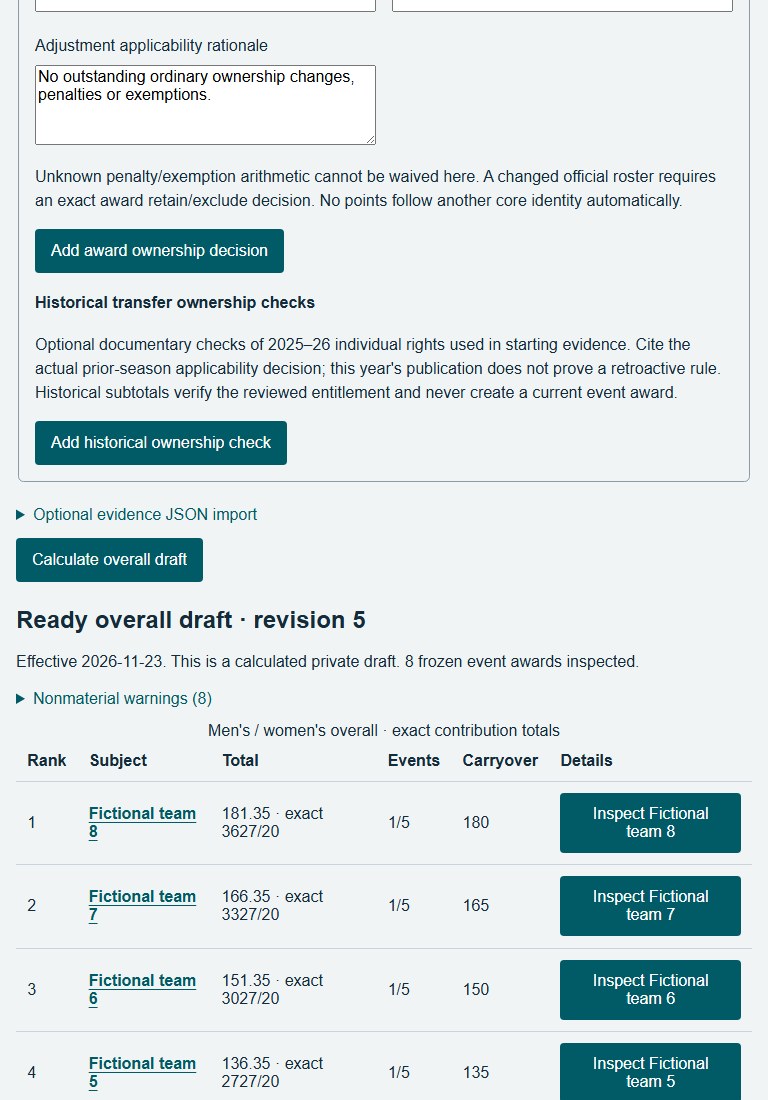
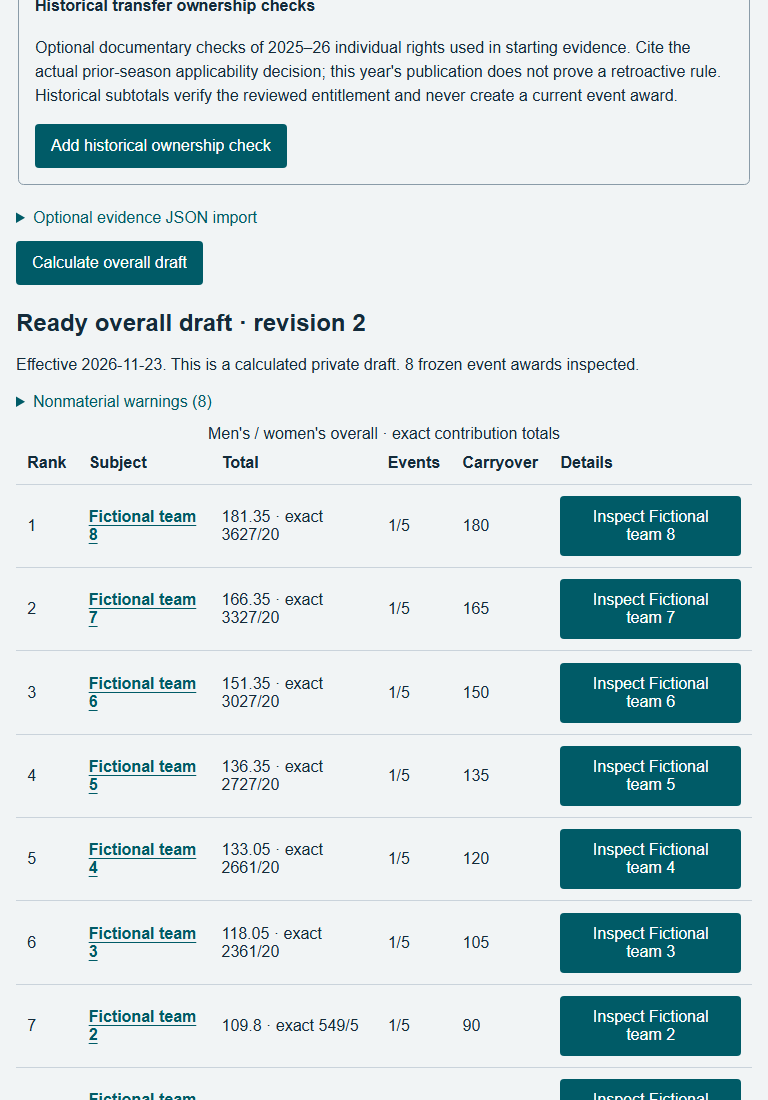
WCP-034: record final 94 domain, 24 affected API and 86 browser verification

diff --git a/tests/browser/overall-rankings.spec.ts b/tests/browser/overall-rankings.spec.ts
@@ -469,6 +469,11 @@ test("ordinary sourced award exclusion, retained roster and historical ownership
     .getByLabel("Prior player 4", { exact: true })
     .fill(f.playerLists[1][0]);
   await page
+    .getByLabel("Continuity rationale", { exact: true })
+    .fill(
+      "Fictional source confirms three retained regulars with50 each from a200 total at four equal shares; incoming independently owns50, so the200 minimum remains exact.",
+    );
+  await page
     .getByRole("button", { name: "Add award ownership decision", exact: true })
     .click();
   await page
@@ -512,6 +517,11 @@ test("ordinary sourced award exclusion, retained roster and historical ownership
     .getByLabel("Historical transfer applicability rationale", { exact: true })
     .fill(
       "Synthetic applicable prior-season decision200×1/4=50. This is documentary starting ownership only, not a current event award or retroactive official rule claim.",
+    );
+  await page
+    .getByLabel("Adjustment applicability rationale", { exact: true })
+    .fill(
+      "Fictional reviewed27-point ordinary exclusion and independently applicable historical entitlement check; no outstanding penalty or exemption arithmetic.",
     );
   await page
     .getByRole("button", { name: "Calculate overall draft", exact: true })

diff --git a/docs/verification/WCP-034.md b/docs/verification/WCP-034.md
@@ -1,6 +1,65 @@
-# WCP-034 implementation evidence (in progress)
+# WCP-034 implementation verification
 
-Assigned worktree `.worktrees/WCP-034`, branch `ticket/WCP-034`; based on accepted integration `3c33c2b4630bfdffe2b561ab0573167ea7bdda86`. This checkpoint is not acceptance or tracker closure. API/domain vertical slice exists; frontend and broad verification remain unfinished.
+Implemented the bounded private men's/women's four-player overall draft slice, with current complete starting ownership, sourced continuity/ordinary decisions, actual persisted033 awards, exact dated selection, immutable contribution/history manifests, safe retries and frozen replay. Runtime source is `ba5b98cd9a2cbd44995cbb961f3ad372f5a9388c`, including accepted integration `6b03ee41f3fd7e82ce52c8f31ab31180f182e83d` (documentation-only atop accepted020). Final follow-up changes clarify synthetic fixture rationale and verification artifacts; runtime bytes are unchanged. No pending007/010 implementation was imported. Independent acceptance and tracker closure belong to the coordinator.
+
+## Final checks and exact scope
+
+Source stayed frozen during each suite; APIs/browser fixtures ran sequentially. Tests use the agreed public domain, real PostgreSQL/HTTP and actual browser seams, with independent expected values and no database mocks or coverage target. Final runtime is Node20.19.0/PostgreSQL13, owned database`wcp034_acceptance` on127.0.0.1:55431, app3134/news3234. Secrets are random/ignored, email is local-file, private media is outside the disposable worktree, and the primary checkout has no `.env`.
+
+Complete private reports/logs are under `C:/Users/brthi/Projects/world-curling-platform-2/.runtime/wcp034-reports/` unless an earlier checkpoint explicitly names this worktree's ignored `.runtime/`.
+
+| Actual command / scope | Result and retained evidence |
+| --- | --- |
+| Final standard `npm test` | **94/94**,0fail/skip,2.351s;84 inherited +10 substantive034 domain scenarios. `domain-final.log`. |
+| Standard `npm run test:api`, **pre-overlap-guard** frozen source | **101/101**,0fail/skip,539.146s. `api-all.log`. This earlier broad scope is not relabelled as final-guard testing. |
+| Final `npx tsx --test --test-concurrency=1 tests/ranking-inputs.api.test.ts tests/event-assessments.api.test.ts tests/finalization-api.test.ts tests/overall-rankings.api.test.ts` | **24/24**,0fail/skip,131.140s. `api-final-affected.log`. Includes current ownership guard, real033 single/triple awards, sporting/source races, provenance and transactional recovery. |
+| Final standard `npm run test:browser -- --reporter=list,html,json --output=<owned-report-path>` | **86/86**,1116.209s,0unexpected/flaky/skipped, no report errors. Complete `browser-all/`, `browser-all-results/`, `browser-all.json`, `browser-all.log`. All four034 browser cases passed, including ordinary historical/continuity/exclusion controls and the corrected history race. |
+| Fixture-rationale-only focused browser follow-up | **1/1**,11.9s, runtime unchanged. `ordinary-evidence-clarity/`, matching JSON/log/results. The synthetic retained-roster and adjustment rationales now explicitly describe their recorded decisions. |
+| Final `npm run build`; standalone `npm run typecheck` | Production compile, TypeScript and36-page generation passed; separate typecheck passed. `build-final.log`, `typecheck-final.log`. |
+| Fresh owned`wcp034_fresh_20261109`: migrate/seed/migrate/seed, actual-byte ledger comparison, `npm run worker:probe` | All **24** migrations applied, both seeds passed, repeat migration up to date; **24/24** actual-file hashes match; one real probe row/output verified. `fresh-ledger-proof.log`. Incremental owned`wcp034` and clean acceptance migration/seed paths also passed. |
[2 lines of base64/hex data omitted]
+| Complete changed-range whitespace/source check | `git diff --check 6b03ee41f3fd7e82ce52c8f31ab31180f182e83d` passed. Inherited test-regenerated009/012/013/044 screenshots were preserved privately in `inherited-generated-assets/`, then accepted assets restored. |
+
[1 lines of base64/hex data omitted]
+
+## Independently worked behavior
+
+F4: starting160 plus40/30/20 gives Sep14=200; Sep15/Oct5/Oct6=190; Oct27=170; Nov17=150; Dec8=130; Dec29=110; Jan19=90. Every inclusive checkpoint and preceding-day boundary is checked through July31, with both season bounds, eight-event cap (9+8+7+6+5+4+3+2=44;1 excluded), future-date exclusion and exact7/12 diagnostic.
+
+F6:90 from three events outranks90 from four;45/30/15 outranks40/30/20 after removing the smallest;50/25/15 outranks45/30/15 after a second removal. Identical exhausted vectors retain unresolved/null sporting ranks and block readiness. Carryover participation in this comparison is an explicit application interpretation, not an official clarification.
+
+F7: four-player prior200 gives50 each; three retained plus incoming80 gives230, incoming30 retains200. Four of five at40 each plus incoming60 gives220; incoming20 retains200. A new five's documented20/24/28/32/36 sum140. Unsupported prior allocations such as0/0/0/1 cannot grant a floor. Historical ordinary transfer arithmetic checks20/50/30/40/40 on independently sourced applicable branches; exact October31 and absent retrospective applicability remain blocked. Such documentary checks validate the existing032 individual amount and never create a current event award or editable list total.
+
+The real event/list fixture proves102=27 actual033 award +200×3/8 carryover, preserving immutable27 when a sourced ordinary exclusion yields75. A completed event cannot promote draft032 starting inputs. Simultaneously applicable **positive individual** starting rights cannot be duplicated across included subjects. This is neither a core/name match nor a blanket exclusion of historical event awards; the independently sourced nonoverlapping temporal registration case remains ready and retains original event bytes.
+
+Real red→green evidence is retained: advisory-wait append-only033 returned200 instead of409; current sporting correction with unchanged027version returnedready instead ofblocked; duplicated positive rights returnedready instead ofblocked; fabricated prior shares silently granted a floor. Logs are `ownership-guard-{domain,api}-red.log` in the root report directory and the earlier `.runtime/overall-{barrier,dirty}-{red,green}.log` paths below. Final94domain/24API/86browser runs cover the corrected behaviors.
+
+## Sources, browser inspection and limits
+
+The actual primary bodies were retrieved on **2026-11-09 UTC**, retained privately as this worktree's `.runtime/source-*.bytes`, and hashed in `src/domain/overall-sources.ts`:
+
+| Primary source | Completed retrieval UTC | Actual SHA-256 |
+| --- | --- | --- |
[3 lines of base64/hex data omitted]
+
+Opened actual desktop1440, tablet768 and phone360 full/viewport PNGs, the table views, phone's horizontally scrolled action view and retained-command reload. Readable labels, exact values and dates, visible focus, touch controls, loading/stale/error/denied/blocked/ready states, persisted contribution/history controls and real committed-acknowledgement recovery are exercised. Normal-path browser assertions cover console/page/network errors and no5xx; each width's axe scan has zero violations. Safe synthetic screenshots are in `docs/verification/assets/WCP-034/`. Full private traces remain in separate retained report directories. The phone table is intentionally horizontally scrollable; actual keyboard scrolling and reachable action columns were verified.
+
+Scope limits: Chromium only; no hosted/domain/provider delivery claim; hosting/domain remain user-pending. Series, mixed doubles, publication and transitive reassessment are later slices. Exhausted official ties, exact October31 deadline facts, unknown penalty/exemption arithmetic and unsupported rule schedules stay blocked. Historical source metadata is staff-recorded evidence, not automated authenticity certification, and this year's publication is not retroactive eligibility authority. Matching retained source/build is required to replay old code; no automatic historical-engine hosting service is claimed. Hard process death, database/network outage during session-lock acquisition/unlock and exhaustive malformed-source permutations were not injected. The finally-unlock/destroy path was reviewed, while normal/error transaction cleanup is exercised by the real API tests.
+
+## Runtime handoff
+
+After suites finished, web/worker were restarted with **hidden detached** `Start-Process` calls. Independent producer-only verification on2026-11-09T01:46:44.822Z confirmed public HTTP200, anonymous private API401, and job`b0fc7723-f894-4822-baf0-3fc387dd2db9` completed with exact handler output through the detached worker. No in-process consumer was started for that proof. `detached-runtime.json` records launcherPID21444/workerPID104452 and private log paths; `detached-runtime-proof.log` retains actual outcomes.
+
+Runtime availability must be probed again after handoff. In the assigned worktree use its ignored `.env` (database`wcp034_acceptance`, ports3134/3234), `npm run build` if source changed, then `npm start` and `npm run worker` in separate terminals. The ignored `.runtime/start-reviewed-runtime.ps1` provides the same hidden detached launch with private logs and refuses an existing3134 listener; inspect and stop only this owned runtime before restarting. The primary checkout remains unconfigured. No tracker closure or push was performed by this implementer; the coordinator pushed the reported checkpoints.
+
+## Earlier checkpoint record (historical, superseded by final results above)
+
+Initially assigned worktree `.worktrees/WCP-034`, branch `ticket/WCP-034`, based on accepted integration `3c33c2b4630bfdffe2b561ab0573167ea7bdda86`. The following records preserve intermediate incomplete scopes and failures; their pending language is historical.
+
+Early intermediate typechecks also caught incorrect shared recovery-component/locked-state names and a fixture's untyped PostgreSQL backend PID access; these were corrected before the passing production builds and final standalone typecheck. Their original failures are in the tool transcript rather than a retained file log.
 
 Read implement-spec/TDD (including tests/mocking), AGENTS, execution/ticket/tracker/research contracts, published034/spec/CONTEXT, relevant identity/authority/roster/runtime ADRs, frontend specification,032/033 API contracts and033 independent merge evidence. No draft issues, pending020 code or crawler writes were used.
 

diff --git a/docs/api/overall-rankings.md b/docs/api/overall-rankings.md
@@ -10,6 +10,8 @@ The engine supports the actual2026-27 overall dated schedule; modified schedules
 
 Completed033 event-roster review does not approve032 starting rights. Every included subject needs a current **reviewed and complete**032 starting record covering the date, identified official regulars, allocations and individual ownership/eligibility. The separate continuity review either records sourced absence of a floor or exact prior roster/total/shares proving three-of-four/four-of-five retention. Retained amounts must match their sourced prior shares. The floor is `max(individual sum, prior total)`; a stronger incoming right adds the exact difference naturally. Core reuse, old names and public participation grant no rights.
 
+Prior shares must match a supported four/five-player allocation, not merely sum to one; prior front rotation needs the supported exact-share application interpretation. Positive individual starting rights cannot simultaneously appear in two included/date-applicable subjects without resolved ownership/transfer applicability. This guard compares sourced current entitlement identities, never historical core membership or equal names. It reports a blocker while preserving genuine historical event awards; separately sourced nonoverlapping temporal registrations remain distinct.
+
 Ordinary adjustments record exact owned award exclusions and explicit retain/exclude decisions when the official ranking roster changed. They cannot assign arbitrary current awards or transfer them through core identity. Optional historical transfer checks verify a current032 entitlement against documentary previous-season played subtotals/final totals under one of five ordinary formula branches. These require independent prior-season applicability source, chronology and rationale; this year's publication does not prove retroactive applicability. They validate the existing entitlement rather than adding a manual list total. Exact October31 transfers and unknown penalties/exemptions remain unresolved; no inferred deadline instant or generic waiver is supplied. Historical values are documentary starting evidence, while every current award remains actual033 evidence.
 
 Equal exact totals use fewer actual counting awards, then successive removal of smallest counted awards, retaining carryover in each reduced total under the recorded application interpretation. Exhausted equal vectors retain null sporting ranks and block readiness. Names/IDs never invent an official final criterion. Biography warnings are separate from required blockers.
